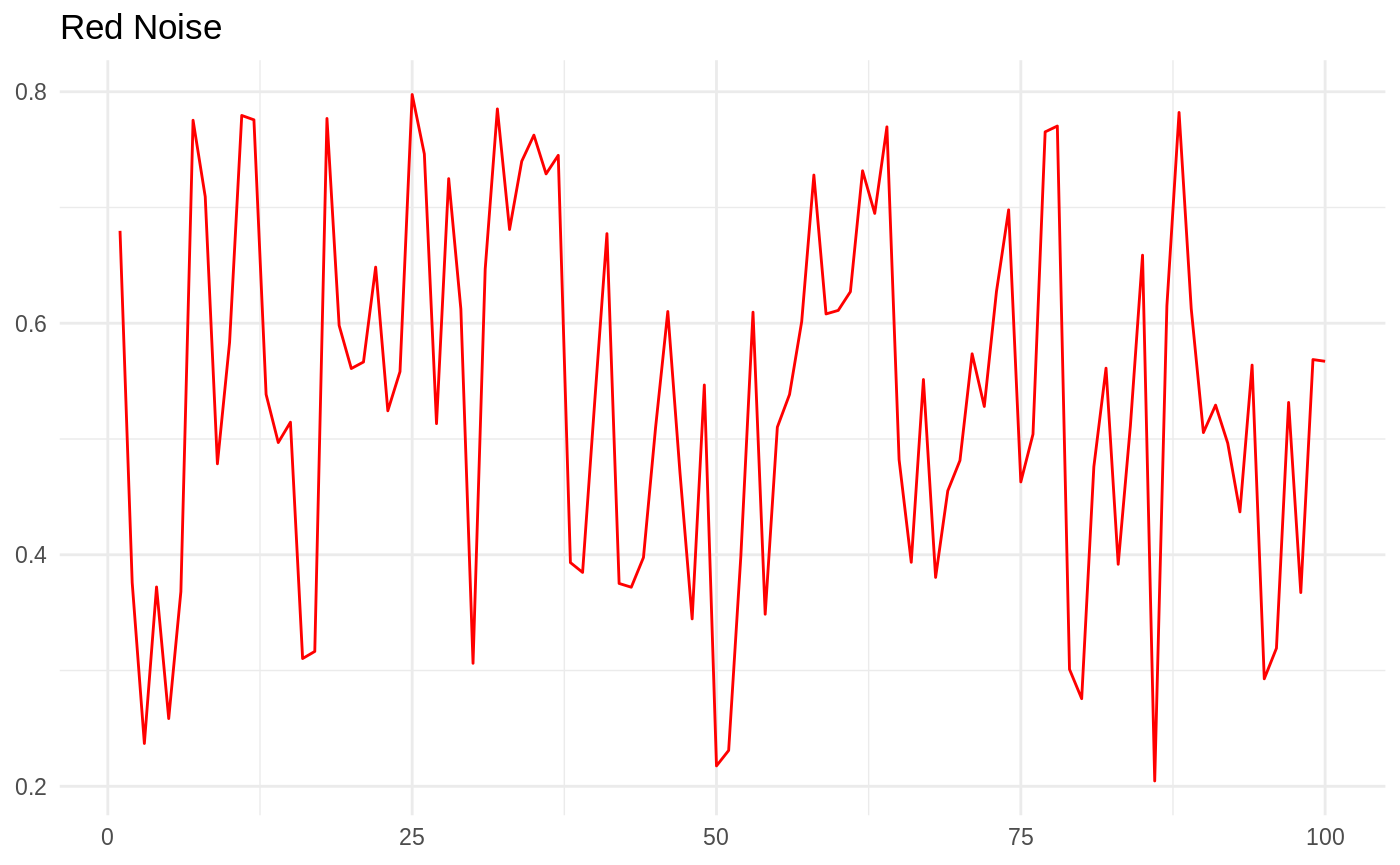
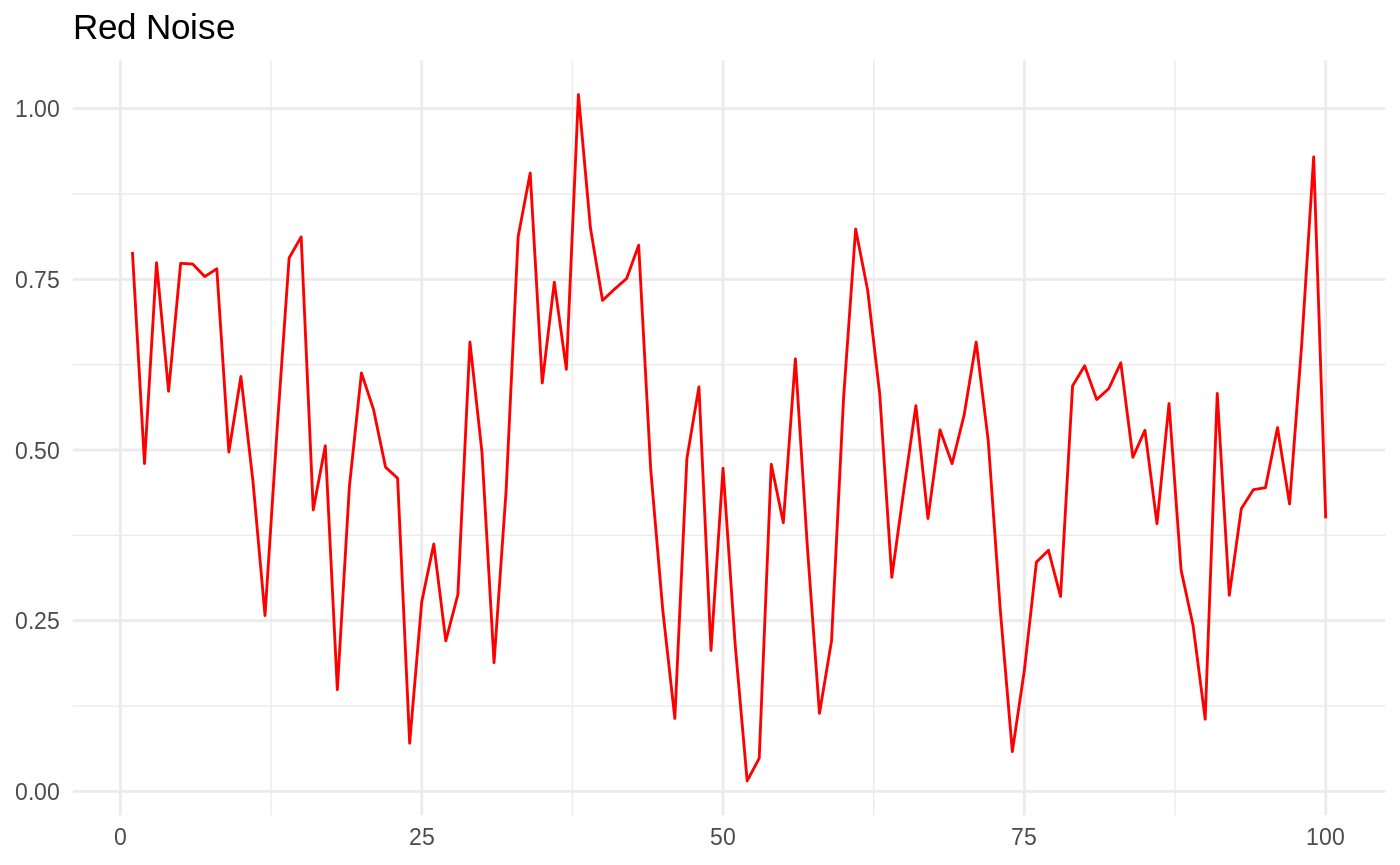
Deploy japilo/colorednoise to github.com/japilo/colorednoise.git:gh-pages

diff --git a/articles/noise.html b/articles/noise.html
@@ -111,12 +111,12 @@
 <p>To show you how you can use this package to simulate and analyze colored noise, I will present a problem for us to solve. Let’s say we want to find out whether our estimates of temporal autocorrelation are biased when the standard deviation of the colored noise is high. First, let’s use the <code>raw_noise</code> function to generate some colored noise with high variance.</p>
 <div class="sourceCode" id="cb1"><pre class="sourceCode r"><code class="sourceCode r"><a class="sourceLine" id="cb1-1" data-line-number="1">red &lt;-<span class="st"> </span><span class="kw">colored_noise</span>(<span class="dt">timesteps =</span> <span class="dv">100</span>, <span class="dt">mean =</span> <span class="fl">0.3</span>, <span class="dt">sd =</span> <span class="fl">1.2</span>, <span class="dt">phi =</span> <span class="fl">0.5</span>)</a>
 <a class="sourceLine" id="cb1-2" data-line-number="2">red[<span class="dv">1</span><span class="op">:</span><span class="dv">10</span>]</a>
-<a class="sourceLine" id="cb1-3" data-line-number="3"><span class="co">#&gt;  [1] -1.9918977 -1.8653920 -1.4323027 -1.3178761 -1.8573302 -2.1796164</span></a>
-<a class="sourceLine" id="cb1-4" data-line-number="4"><span class="co">#&gt;  [7] -1.3776812  0.8387240 -0.9697271 -0.1722209</span></a>
+<a class="sourceLine" id="cb1-3" data-line-number="3"><span class="co">#&gt;  [1] -0.38335749  0.44558087  0.01802317 -0.19493148  0.20668239</span></a>
+<a class="sourceLine" id="cb1-4" data-line-number="4"><span class="co">#&gt;  [6] -0.33824453  0.64632616  0.01041202 -0.25789661  0.18264762</span></a>
 <a class="sourceLine" id="cb1-5" data-line-number="5">blue &lt;-<span class="st"> </span><span class="kw">colored_noise</span>(<span class="dt">timesteps =</span> <span class="dv">100</span>, <span class="dt">mean =</span> <span class="fl">0.3</span>, <span class="dt">sd =</span> <span class="fl">1.2</span>, <span class="dt">phi =</span> <span class="fl">-0.5</span>)</a>
 <a class="sourceLine" id="cb1-6" data-line-number="6">blue[<span class="dv">1</span><span class="op">:</span><span class="dv">10</span>]</a>
-<a class="sourceLine" id="cb1-7" data-line-number="7"><span class="co">#&gt;  [1]  1.0428957 -1.0795434 -0.2876761  0.4332650 -1.5163688  1.8542390</span></a>
-<a class="sourceLine" id="cb1-8" data-line-number="8"><span class="co">#&gt;  [7] -0.4941588  0.8772454  2.1372681 -0.9641883</span></a>
+<a class="sourceLine" id="cb1-7" data-line-number="7"><span class="co">#&gt;  [1]  2.1435951 -2.0355429  0.8353911  1.1182976 -1.8903037  2.0684373</span></a>
+<a class="sourceLine" id="cb1-8" data-line-number="8"><span class="co">#&gt;  [7] -0.5873600  1.5344076 -1.2129835  1.9920819</span></a>
 <a class="sourceLine" id="cb1-9" data-line-number="9"><span class="kw">ggplot</span>(<span class="dt">data =</span> <span class="ot">NULL</span>, <span class="kw">aes</span>(<span class="dt">x =</span> <span class="kw"><a href="https://rdrr.io/r/base/c.html">c</a></span>(<span class="dv">1</span><span class="op">:</span><span class="dv">100</span>), <span class="dt">y =</span> blue)) <span class="op">+</span><span class="st"> </span><span class="kw">geom_line</span>(<span class="dt">color=</span><span class="st">"blue"</span>) <span class="op">+</span><span class="st"> </span><span class="kw">theme_minimal</span>() <span class="op">+</span><span class="st"> </span><span class="kw">theme</span>(<span class="dt">axis.title =</span> <span class="kw">element_blank</span>()) <span class="op">+</span><span class="st"> </span><span class="kw">ggtitle</span>(<span class="st">"Blue Noise"</span>)</a></code></pre></div>
 <p><img src="noise_files/figure-html/generate%20noise-1.png" width="700"></p>
 <div class="sourceCode" id="cb2"><pre class="sourceCode r"><code class="sourceCode r"><a class="sourceLine" id="cb2-1" data-line-number="1"><span class="kw">ggplot</span>(<span class="dt">data =</span> <span class="ot">NULL</span>, <span class="kw">aes</span>(<span class="dt">x =</span> <span class="kw"><a href="https://rdrr.io/r/base/c.html">c</a></span>(<span class="dv">1</span><span class="op">:</span><span class="dv">100</span>), <span class="dt">y =</span> red)) <span class="op">+</span><span class="st"> </span><span class="kw">geom_line</span>(<span class="dt">color=</span><span class="st">"red"</span>) <span class="op">+</span><span class="st"> </span><span class="kw">theme_minimal</span>() <span class="op">+</span><span class="st"> </span><span class="kw">theme</span>(<span class="dt">axis.title =</span> <span class="kw">element_blank</span>()) <span class="op">+</span><span class="st"> </span><span class="kw">ggtitle</span>(<span class="st">"Red Noise"</span>)</a></code></pre></div>
@@ -124,22 +124,22 @@
 <p>The red noise and blue noise look the way they should. Now let’s estimate the mean, SD, and autocorrelation of these two sets of random numbers to see how well they match the parameters we used to generate them.</p>
 <div class="sourceCode" id="cb3"><pre class="sourceCode r"><code class="sourceCode r"><a class="sourceLine" id="cb3-1" data-line-number="1"><span class="kw">invoke_map</span>(<span class="kw"><a href="https://rdrr.io/r/base/list.html">list</a></span>(mean, sd, autocorrelation), <span class="kw"><a href="https://rdrr.io/r/base/rep.html">rep</a></span>(<span class="kw"><a href="https://rdrr.io/r/base/list.html">list</a></span>(<span class="kw"><a href="https://rdrr.io/r/base/list.html">list</a></span>(red)), <span class="dv">3</span>))</a>
 <a class="sourceLine" id="cb3-2" data-line-number="2"><span class="co">#&gt; [[1]]</span></a>
-<a class="sourceLine" id="cb3-3" data-line-number="3"><span class="co">#&gt; [1] 0.6470762</span></a>
+<a class="sourceLine" id="cb3-3" data-line-number="3"><span class="co">#&gt; [1] 0.2044099</span></a>
 <a class="sourceLine" id="cb3-4" data-line-number="4"><span class="co">#&gt; </span></a>
 <a class="sourceLine" id="cb3-5" data-line-number="5"><span class="co">#&gt; [[2]]</span></a>
-<a class="sourceLine" id="cb3-6" data-line-number="6"><span class="co">#&gt; [1] 1.27583</span></a>
+<a class="sourceLine" id="cb3-6" data-line-number="6"><span class="co">#&gt; [1] 1.089794</span></a>
 <a class="sourceLine" id="cb3-7" data-line-number="7"><span class="co">#&gt; </span></a>
 <a class="sourceLine" id="cb3-8" data-line-number="8"><span class="co">#&gt; [[3]]</span></a>
-<a class="sourceLine" id="cb3-9" data-line-number="9"><span class="co">#&gt; [1] 0.690523</span></a>
+<a class="sourceLine" id="cb3-9" data-line-number="9"><span class="co">#&gt; [1] 0.316261</span></a>
 <a class="sourceLine" id="cb3-10" data-line-number="10"><span class="kw">invoke_map</span>(<span class="kw"><a href="https://rdrr.io/r/base/list.html">list</a></span>(mean, sd, autocorrelation), <span class="kw"><a href="https://rdrr.io/r/base/rep.html">rep</a></span>(<span class="kw"><a href="https://rdrr.io/r/base/list.html">list</a></span>(<span class="kw"><a href="https://rdrr.io/r/base/list.html">list</a></span>(blue)), <span class="dv">3</span>))</a>
 <a class="sourceLine" id="cb3-11" data-line-number="11"><span class="co">#&gt; [[1]]</span></a>
-<a class="sourceLine" id="cb3-12" data-line-number="12"><span class="co">#&gt; [1] 0.2278342</span></a>
+<a class="sourceLine" id="cb3-12" data-line-number="12"><span class="co">#&gt; [1] 0.3515542</span></a>
 <a class="sourceLine" id="cb3-13" data-line-number="13"><span class="co">#&gt; </span></a>
 <a class="sourceLine" id="cb3-14" data-line-number="14"><span class="co">#&gt; [[2]]</span></a>
-<a class="sourceLine" id="cb3-15" data-line-number="15"><span class="co">#&gt; [1] 1.220992</span></a>
+<a class="sourceLine" id="cb3-15" data-line-number="15"><span class="co">#&gt; [1] 1.355779</span></a>
 <a class="sourceLine" id="cb3-16" data-line-number="16"><span class="co">#&gt; </span></a>
 <a class="sourceLine" id="cb3-17" data-line-number="17"><span class="co">#&gt; [[3]]</span></a>
-<a class="sourceLine" id="cb3-18" data-line-number="18"><span class="co">#&gt; [1] -0.4655802</span></a></code></pre></div>
+<a class="sourceLine" id="cb3-18" data-line-number="18"><span class="co">#&gt; [1] -0.5442909</span></a></code></pre></div>
 <p>The estimates for these seem to be quite accurate. But let’s try generating a whole lot of colored noise across a range of variance and color and estimating the autocorrelation of each replicate.</p>
 <div class="sourceCode" id="cb4"><pre class="sourceCode r"><code class="sourceCode r"><a class="sourceLine" id="cb4-1" data-line-number="1">raw_sims &lt;-<span class="st"> </span><span class="kw">cross_df</span>(<span class="kw"><a href="https://rdrr.io/r/base/list.html">list</a></span>(<span class="dt">timesteps =</span> <span class="dv">20</span>, <span class="dt">phi =</span> <span class="kw"><a href="https://rdrr.io/r/base/c.html">c</a></span>(<span class="op">-</span><span class="fl">0.5</span>, <span class="dv">0</span>, <span class="fl">0.5</span>), <span class="dt">mean =</span> <span class="fl">0.3</span>, <span class="dt">sd =</span> <span class="kw"><a href="https://rdrr.io/r/base/c.html">c</a></span>(<span class="fl">0.5</span>, <span class="fl">0.7</span>, <span class="fl">0.9</span>, <span class="fl">1.1</span>, <span class="fl">1.3</span>, <span class="fl">1.5</span>))) <span class="op">%&gt;%</span><span class="st"> </span><span class="kw">rerun</span>(<span class="dt">.n =</span> <span class="dv">30</span>, <span class="kw">pmap</span>(., colored_noise))</a>
 <a class="sourceLine" id="cb4-2" data-line-number="2">labels &lt;-<span class="st"> </span>raw_sims <span class="op">%&gt;%</span><span class="st"> </span><span class="kw">map</span>(<span class="dv">1</span>) <span class="op">%&gt;%</span><span class="st"> </span><span class="kw">bind_rows</span>()</a>
@@ -147,13 +147,13 @@
 <a class="sourceLine" id="cb4-4" data-line-number="4">estimates &lt;-<span class="st"> </span><span class="kw"><a href="https://rdrr.io/r/base/data.frame.html">data.frame</a></span>(<span class="dt">mu =</span> <span class="kw">map_dbl</span>(noise, mean), <span class="dt">sigma =</span> <span class="kw">map_dbl</span>(noise, sd), <span class="dt">autocorrelation =</span> <span class="kw">map_dbl</span>(noise, autocorrelation))</a>
 <a class="sourceLine" id="cb4-5" data-line-number="5">sd_range &lt;-<span class="st"> </span><span class="kw"><a href="https://rdrr.io/r/base/cbind.html">cbind</a></span>(labels, estimates)</a>
 <a class="sourceLine" id="cb4-6" data-line-number="6"><span class="kw"><a href="https://rdrr.io/r/utils/head.html">head</a></span>(sd_range)</a>
-<a class="sourceLine" id="cb4-7" data-line-number="7"><span class="co">#&gt;   timesteps  phi mean  sd         mu     sigma autocorrelation</span></a>
-<a class="sourceLine" id="cb4-8" data-line-number="8"><span class="co">#&gt; 1        20 -0.5  0.3 0.5 0.40350421 0.4581234      -0.9428122</span></a>
-<a class="sourceLine" id="cb4-9" data-line-number="9"><span class="co">#&gt; 2        20  0.0  0.3 0.5 0.23716390 0.4664220      -0.1281252</span></a>
-<a class="sourceLine" id="cb4-10" data-line-number="10"><span class="co">#&gt; 3        20  0.5  0.3 0.5 0.31413527 0.4294544       0.4958375</span></a>
-<a class="sourceLine" id="cb4-11" data-line-number="11"><span class="co">#&gt; 4        20 -0.5  0.3 0.7 0.34380251 0.6296413      -0.5966311</span></a>
-<a class="sourceLine" id="cb4-12" data-line-number="12"><span class="co">#&gt; 5        20  0.0  0.3 0.7 0.45784042 0.6700449       0.8405383</span></a>
-<a class="sourceLine" id="cb4-13" data-line-number="13"><span class="co">#&gt; 6        20  0.5  0.3 0.7 0.01826246 0.8208114       0.4287183</span></a></code></pre></div>
+<a class="sourceLine" id="cb4-7" data-line-number="7"><span class="co">#&gt;   timesteps  phi mean  sd          mu     sigma autocorrelation</span></a>
+<a class="sourceLine" id="cb4-8" data-line-number="8"><span class="co">#&gt; 1        20 -0.5  0.3 0.5  0.31431525 0.5760308      -0.7034572</span></a>
+<a class="sourceLine" id="cb4-9" data-line-number="9"><span class="co">#&gt; 2        20  0.0  0.3 0.5  0.26942494 0.3530156      -0.3554683</span></a>
+<a class="sourceLine" id="cb4-10" data-line-number="10"><span class="co">#&gt; 3        20  0.5  0.3 0.5 -0.03351101 0.3569563       0.6379378</span></a>
+<a class="sourceLine" id="cb4-11" data-line-number="11"><span class="co">#&gt; 4        20 -0.5  0.3 0.7  0.24589703 0.8262411      -0.5896385</span></a>
+<a class="sourceLine" id="cb4-12" data-line-number="12"><span class="co">#&gt; 5        20  0.0  0.3 0.7  0.58705177 0.8545462       0.3851041</span></a>
+<a class="sourceLine" id="cb4-13" data-line-number="13"><span class="co">#&gt; 6        20  0.5  0.3 0.7  0.43811326 0.7463699       0.5550012</span></a></code></pre></div>
 <p>We can visualize these results by finding the mean and confidence intervals of the autocorrelation estimates for each combination of variance and noise color, and plotting them out.</p>
 <div class="sourceCode" id="cb5"><pre class="sourceCode r"><code class="sourceCode r"><a class="sourceLine" id="cb5-1" data-line-number="1">sd_range <span class="op">%&gt;%</span><span class="st"> </span><span class="kw">group_by</span>(phi, sd) <span class="op">%&gt;%</span><span class="st"> </span><span class="kw">summarize_at</span>(<span class="kw">funs</span>(<span class="dt">lower.ci =</span> ((<span class="cf">function</span>(bar){<span class="kw"><a href="https://rdrr.io/r/stats/quantile.html">quantile</a></span>(bar, <span class="dt">probs=</span><span class="kw"><a href="https://rdrr.io/r/base/c.html">c</a></span>(<span class="fl">0.05</span>, <span class="fl">0.95</span>))[[<span class="dv">1</span>]]})(.)),</a>
 <a class="sourceLine" id="cb5-2" data-line-number="2">           <span class="dt">upper.ci =</span> ((<span class="cf">function</span>(bar){<span class="kw"><a href="https://rdrr.io/r/stats/quantile.html">quantile</a></span>(bar, <span class="dt">probs=</span><span class="kw"><a href="https://rdrr.io/r/base/c.html">c</a></span>(<span class="fl">0.05</span>, <span class="fl">0.95</span>))[[<span class="dv">2</span>]]})(.)),</a>
